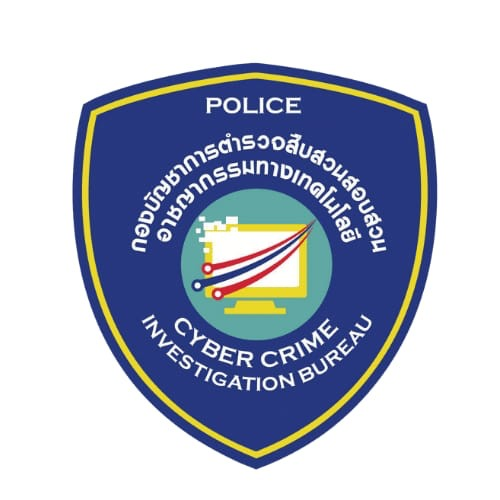
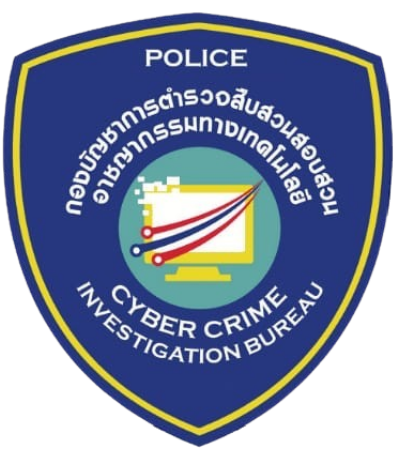
Fix:search-certlogos

diff --git a/app/search/page.tsx b/app/search/page.tsx
@@ -228,22 +228,25 @@ export default async function SearchPage({ searchParams }: SearchPageProps) {
         {exactCert && (
           <div className="mb-10 overflow-hidden rounded-3xl border border-indigo-200/20 bg-white/5 shadow-2xl backdrop-blur-2xl">
             <div className="flex flex-col md:flex-row p-8 md:p-10 gap-8 items-start">
-              {/* Logo */}
+              {/* Logo Block */}
               <div className="flex-shrink-0">
-                <div className="flex h-32 w-32 md:h-40 md:w-40 items-center justify-center rounded-2xl bg-white p-4 shadow-inner">
-                  {exactCert.logoUrl ? (
-                    <div className="relative h-full w-full">
-                      <Image
-                        src={exactCert.logoUrl}
-                        alt={exactCert.shortName}
-                        fill
-                        unoptimized
-                        className="object-contain"
-                      />
-                    </div>
-                  ) : (
-                    <span className="text-4xl font-black text-indigo-900/40">CERT</span>
-                  )}
+                <div className="flex h-32 w-32 md:h-40 md:w-40 items-center justify-center rounded-full bg-white p-4 shadow-lg border border-white/60 overflow-hidden">
+                  <div className="relative h-full w-full flex items-center justify-center">
+                    <Image
+                      src={
+                        exactCert.logoUrl ||
+                        `/cert/${
+                          exactCert.shortName?.endsWith(".png")
+                            ? exactCert.shortName
+                            : `${exactCert.shortName}.png`
+                        }`
+                      }
+                      alt={exactCert.shortName || "CERT Logo"}
+                      fill
+                      unoptimized
+                      className="object-contain p-2"
+                    />
+                  </div>
                 </div>
               </div>
 
